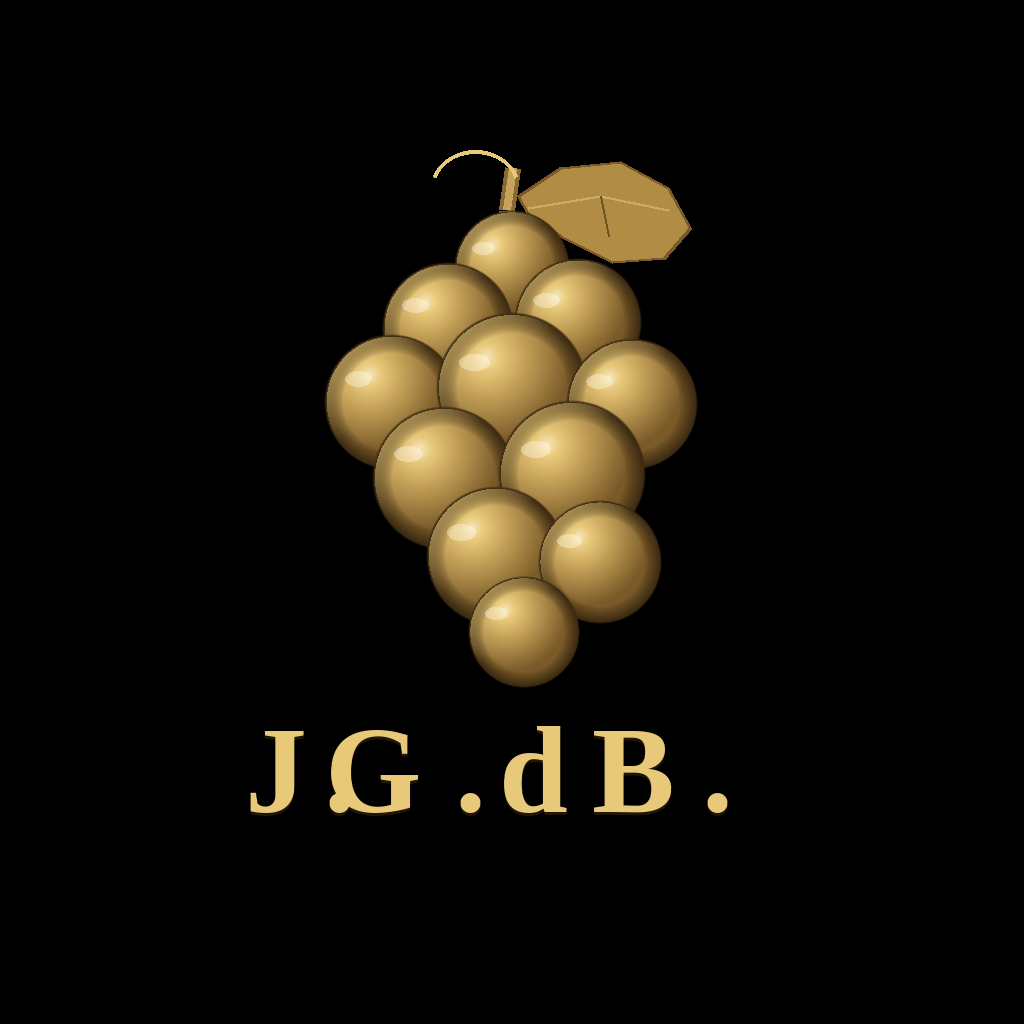
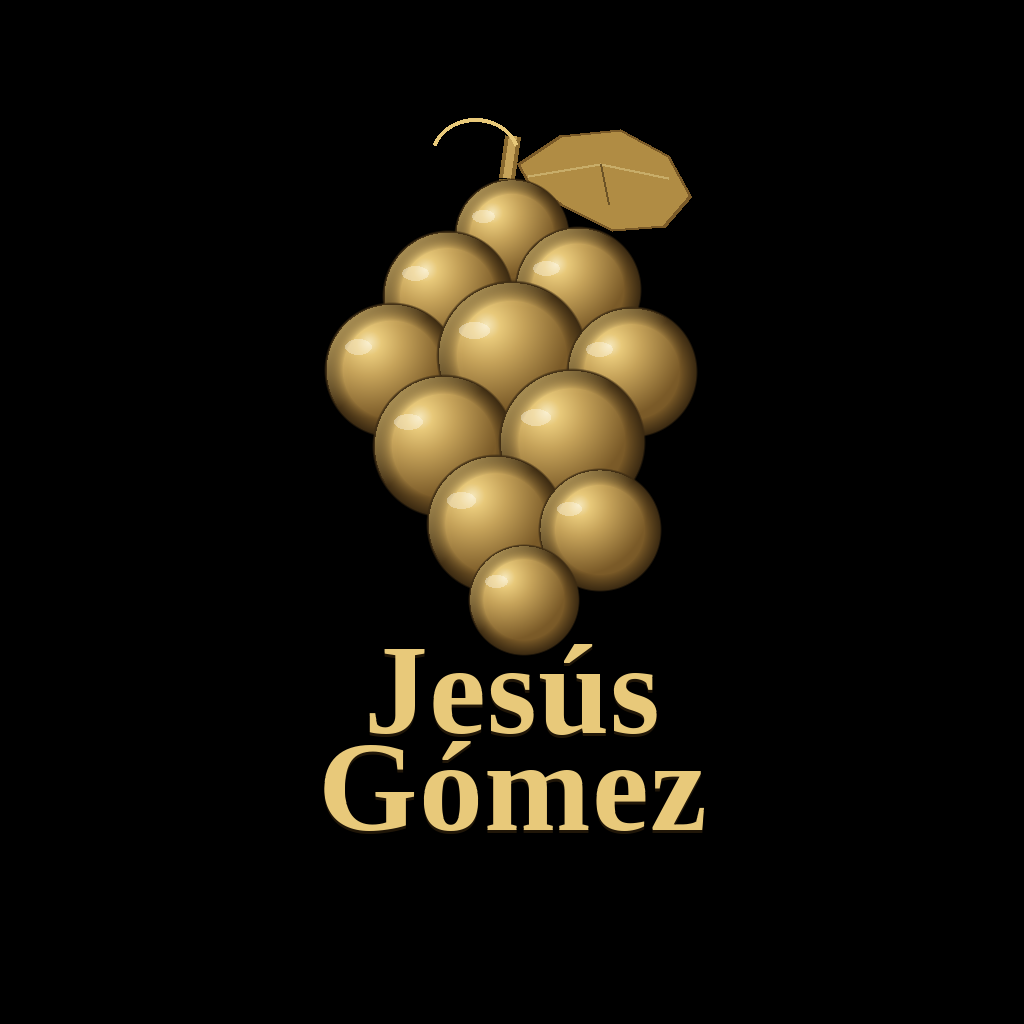
El emblema de Jesús dice Jesús Gómez, en dos líneas.
Mismo racimo dorado y fondo negro, en todos los tamaños. La edición de José no cambia.

Changed region(s): [[0.25, 0.0938, 0.7188, 0.8125]]

diff --git a/tests/v106-icono.test.js b/tests/v106-icono.test.js
@@ -22,8 +22,11 @@ const v105 = read("casa-v105.js");
 const css = read("styles.css");
 
 assert.ok(joseSvg.includes("J.G.C."));
-assert.ok(!joseSvg.includes("J.G. d B."));
-assert.ok(jesusSvg.includes("J.G. d B."));
+assert.ok(!joseSvg.includes("Jesús"));
+assert.ok(!joseSvg.includes("Gómez"));
+assert.ok(jesusSvg.includes("Jesús"));
+assert.ok(jesusSvg.includes("Gómez"));
+assert.ok(!jesusSvg.includes("J.G. d B."));
 assert.ok(!jesusSvg.includes("J.G.C."));
 assert.ok(jesusSvg.includes('fill="#000"') || jesusSvg.includes("fill:#000"));
 assert.ok(jesusSvg.includes("#e8c97a"));
@@ -31,7 +34,7 @@ assert.ok(jesusSvg.includes("#c6a35a"));
 
 assert.ok(joseHtml.includes('<div class="mark">J.G.C.</div>'));
 assert.ok(!joseHtml.includes("jesus-emblem"));
-assert.ok(!joseHtml.includes("J.G. d B."));
+assert.ok(!joseHtml.includes("Jesús Gómez"));
 assert.ok(joseHtml.includes('href="apple-touch-icon.png"'));
 assert.ok(joseManifest.icons.every(icon => !String(icon.src).includes("jesus") && !String(icon.src).includes("maskable")));
 assert.ok(joseManifest.icons.some(icon => icon.src === "apple-touch-icon.png"));
@@ -43,7 +46,8 @@ assert.ok(jesusHtml.includes('href="icon-192.png"'));
 assert.ok(jesusHtml.includes('href="icon-120.png"'));
 assert.ok(jesusHtml.includes('href="icon-152.png"'));
 assert.ok(jesusHtml.includes('href="icon-167.png"'));
-assert.ok(jesusHtml.includes("J.G. d B."));
+assert.ok(jesusHtml.includes("Jesús Gómez"));
+assert.ok(!jesusHtml.includes("J.G. d B."));
 assert.ok(jesusHtml.includes("jesus-emblem"));
 assert.ok(jesusHtml.includes("icon-192-maskable"));
 
@@ -93,7 +97,8 @@ assert.ok(sw.includes('"casa-llavaneras-jesus-ios-v106"'));
 assert.ok(sw.includes('"casa-llavaneras-ios-v106"'));
 
 assert.ok(v105.includes("jesusIconFile"));
-assert.ok(v105.includes('img.alt = "J.G. d B."'));
+assert.ok(v105.includes('img.alt = "Jesús Gómez"'));
+assert.ok(!v105.includes("J.G. d B."));
 assert.ok(v105.includes('img.src = "apple-touch-icon.png"'));
 assert.ok(css.includes(".jesus-emblem"));
 assert.ok(css.includes(".splash .jesus-mark"));

diff --git a/tests/v106-icono-shot.js b/tests/v106-icono-shot.js
@@ -78,7 +78,7 @@ async function shot(page, name) {
     <div class="status"><b>9:41</b><div class="sigs"><span>●●●</span><span>5G</span><span class="battery"><i></i></span></div></div>
     <div class="grid">
       <div class="slot">
-        <img src="http://127.0.0.1:8807/jesus/apple-touch-icon.png" alt="J.G. d B.">
+        <img src="http://127.0.0.1:8807/jesus/apple-touch-icon.png" alt="Jesús Gómez">
         <div class="label">Vinoteca Jesús Gómez</div>
       </div>
       <div class="slot"><div class="glyph"></div><div class="ghost"></div></div>
@@ -150,11 +150,11 @@ async function shot(page, name) {
   });
   assert.deepStrictEqual(errors, []);
   assert.strictEqual(jesusLogo.title, "Vinoteca Jesús Gómez");
-  assert.strictEqual(jesusLogo.alt, "J.G. d B.");
+  assert.strictEqual(jesusLogo.alt, "Jesús Gómez");
   assert.strictEqual(jesusLogo.src, "apple-touch-icon.png");
   assert.strictEqual(jesusLogo.width, 180);
   assert.strictEqual(jesusLogo.splash, "apple-touch-icon.png");
-  assert.strictEqual(jesusLogo.splashAlt, "J.G. d B.");
+  assert.strictEqual(jesusLogo.splashAlt, "Jesús Gómez");
   assert.ok(!jesusLogo.markText.includes("J.G.C."));
   assert.strictEqual(jesusLogo.perfil, "apple-touch-icon.png");
   assert.strictEqual(jesusLogo.perfilWidth, 180);

diff --git a/jesus/index.html b/jesus/index.html
@@ -42,7 +42,7 @@
           if (/^(apple-touch-icon|icon-192-maskable|icon-512-maskable|icon-192|icon-512|icon-120|icon-152|icon-167|icon-180|icon-1024|icon)\.(png|svg)$/.test(icon)) return a + icon + c;
           return a + pre + url + c;
         });
-        html = html.replace(/<div class="mark">J\.G\.C\.<\/div>/g, '<div class="mark jesus-mark"><img class="jesus-emblem" src="apple-touch-icon.png" alt="J.G. d B."></div>');
+        html = html.replace(/<div class="mark">J\.G\.C\.<\/div>/g, '<div class="mark jesus-mark"><img class="jesus-emblem" src="apple-touch-icon.png" alt="Jesús Gómez"></div>');
         if (html.indexOf('sizes="120x120"') < 0) {
           html = html.replace("</head>", '<link rel="apple-touch-icon" sizes="120x120" href="icon-120.png"><link rel="apple-touch-icon" sizes="152x152" href="icon-152.png"><link rel="apple-touch-icon" sizes="167x167" href="icon-167.png"></head>');
         }

diff --git a/casa-v105.js b/casa-v105.js
@@ -72,7 +72,7 @@
       el.textContent = "";
       const img = document.createElement("img");
       img.className = "jesus-emblem";
-      img.alt = "J.G. d B.";
+      img.alt = "Jesús Gómez";
       img.src = "apple-touch-icon.png";
       el.appendChild(img);
     });
@@ -80,7 +80,7 @@
       if (hero.querySelector(".jesus-emblem")) return;
       const img = document.createElement("img");
       img.className = "jesus-emblem";
-      img.alt = "J.G. d B.";
+      img.alt = "Jesús Gómez";
       img.src = "apple-touch-icon.png";
       const eyebrow = hero.querySelector(".eyebrow");
       if (eyebrow) hero.insertBefore(img, eyebrow);
